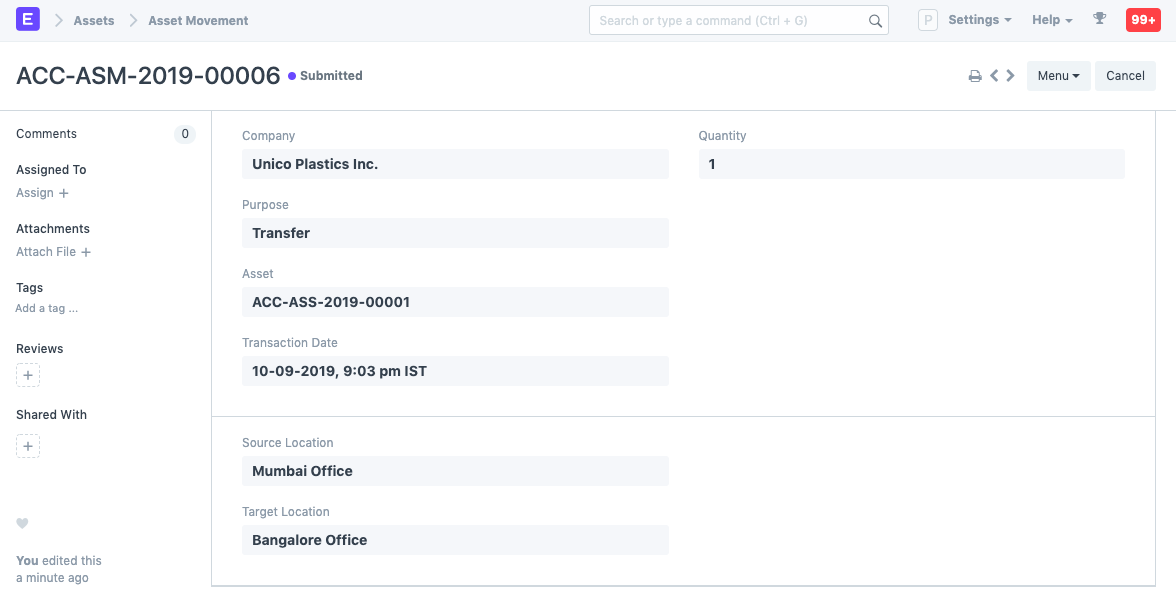
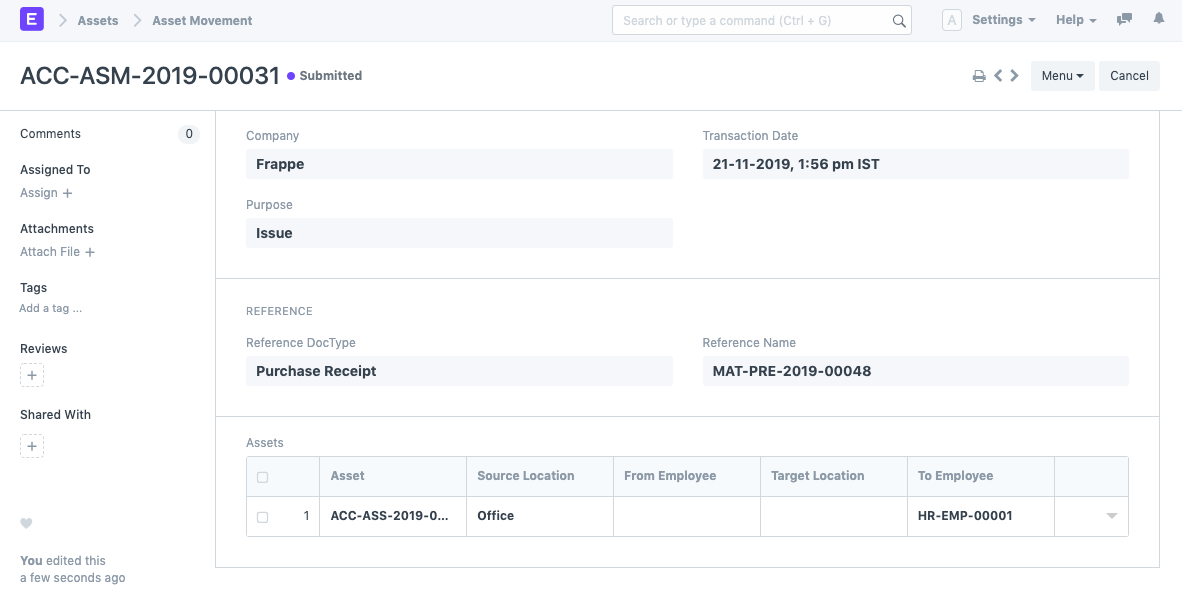
[WIP] [Asset Refactor] add docs for assets, asset movement, purchase of assets

diff --git a/erpnext_com/www/docs/user/manual/en/asset/asset.md b/erpnext_com/www/docs/user/manual/en/asset/asset.md
@@ -28,19 +28,19 @@ For an existing asset, you can create the asset record directly checking "Is Exi
 
 ### 2.2 New Asset
 
-For new assets, you cannot create the asset record directly from the Asset form. 
+For new assets, you cannot create the asset record directly from the Asset form. You need to create a Purchase Receipt/Invoice for it.
 
-When you're buying new assets, an asset ID is created when you make a Purchase Receipt. On submitting the Purchase Receipt for an Asset, you'll see a message like 'Asset AST00003 created'. This will happen only if you've ticked the 'Is Fixed Asset' checkbox when creating the Item.
+When you're buying new assets, an asset ID is created when you make a Purchase Receipt. On submitting the Purchase Receipt for an Asset, you'll see a message like 'Asset AST00003 created'. This will happen only if you've ticked the 'Is Fixed Asset' checkbox when creating the Item.	When you're buying new assets, assets can be created automatically when you make a Purchase Receipt, if you have 'Auto Create Assets on Purchase' ticked in the asset item. On submitting the Purchase Receipt for an Asset, you'll see a message like '5 Assets created for Office Phone'. If you don't want to auto create assets, after Purchase Receipt submission you will have to manually create assets and link the Purchase Receipt to the Asset.
 
 <img class="screenshot" alt="Asset" src="{{docs_base_url}}/assets/img/asset/asset.png">
 
-After submitting a Purchase Receipt/Invoice for such an Item, an Asset record will be created in the Draft stage. You can then go to the Asset and submit it.
+After submitting a Purchase Receipt/Invoice for such an Item, in case of auto creation a number of Asset record will be created in the Draft stage. You can then go to the Asset and submit it.
 
 To know more, visit the [Purchasing an Asset](/docs/user/manual/en/asset/purchasing-an-asset) page.
 
-## 3. How to create an Asset
+## 3. How to manually create an Asset
 
-Before you can create an Asset, you need to create an Item with 'Is Fixed Asset' checkbox ticked. Note that this cannot be done on an existing Item.
+Before you can create an Asset, you need to create an Item with 'Is Fixed Asset' checkbox ticked and create a Purchase Receipt/Invoice against that Item. Note that you will have to create a number of Assets based on the quantity specified in the Purchase Document.
 
 An Asset Category needs to be assigned to that Item. Now the Asset can be created.
 
@@ -49,9 +49,8 @@ An Asset Category needs to be assigned to that Item. Now the Asset can be create
 1. Select the Item Code, the Item Name and Asset Category will be fetched automatically.
 1. Select who is the Asset Owner, i.e. Company, Supplier, or Customer.
 1. Select the Company/Supplier/Customer.
-1. Select a Location. Eg: Mumbai Office.
-1. Enter the Purchase Date.
-1. Enter the Gross Purchase Amount.
+1. Select the Purchase Receipt/Invoice. Purchase Date and Gross Purchase Amount will be fetched automatically.
+1. Select a Location. Eg: Mumbai Office. This will be fetched automatically if specified in Purchase Receipt items table
 1. Enter an Available for use Date to set the date from which the Asset is available for use. The depreciation for the first period will be calculated from this date.
 1. Tick the 'Is Existing Asset' checkbox if you're recording an existing Asset.
 1. Save and Submit. 

diff --git a/erpnext_com/www/docs/user/manual/en/asset/asset-movement.md b/erpnext_com/www/docs/user/manual/en/asset/asset-movement.md
@@ -19,16 +19,16 @@ Before creating and using Asset Movement, it is advised to create the following 
 
 ## 2. How to create an Asset Movement
 1. Go to the Asset Movement list, click on New.
-1. Select the Asset. 
+1. Select the Purpose. Based on purpose mandatory fields will be changed.
 1. Select a date.
-1. Enter the Quantity to be transfered.
-1. Enter the source and target Locations of the Asset.
-1. You can also transfer an Asset from one Employee to another by selecting the From and To Employee.
+1. Select Reference Doctype. It can be Purchase Reciept or Invoice
+1. Select Reference Document. It is the document through which the Asset was purchased.
+1. Assets linked to the Purchase Document will be fetched automatically. This handy when you have to make movements of a number of assets.
 1. Save.
 1. Submit.
 
-    If the Item is Serialized, enter the Serial Number. 
+There is also a **Transfer Asset** button on the top right of the Asset form to initiate Asset Movement. 
 
-There is also a **Transfer Asset** button on the top right of the Asset form to initiate Asset Movement. Enter the target location, select a date and click on Transfer.
+To make asset movement of a number of assets it is adviced to go to Asset List, select Assets and click on 'Make Asset Movement' from Actions menu on the top left.
 
 <img class="screenshot" alt="Asset" src="{{docs_base_url}}/assets/img/asset/asset-movement-using-button.png">

diff --git a/erpnext_com/www/docs/user/manual/en/asset/purchasing-an-asset.md b/erpnext_com/www/docs/user/manual/en/asset/purchasing-an-asset.md
@@ -4,9 +4,13 @@ For purchasing a new asset:
 
 1. Create an Asset Category
 1. Create an related Item with 'Is Fixed Asset' enabled for creating the asset.
+1. You may also enable 'Auto Create Assets on Purchase' for creating assets automatically. (Optional)
+
+<img class="screenshot" alt="Purchasing Asset" src="{{docs_base_url}}/assets/img/asset/asset-purchase-receipt.png">
+
 1. Then, the [purchase cycle](/docs/user/manual/en/buying/purchase-order) should be followed for purchasing an asset.
 1. Enter the Asset Location in the Items table of the [Purchase Receipt](/docs/user/manual/en/stock/purchase-receipt) or [Purchase Invoice](/docs/user/manual/en/accounts/purchase-invoice) through which you are receiving the item.
-1. On submission of a Purchase Receipt, an asset record will be created automatically. You can then enter other details of the asset manually from the Asset form.
+1. On submission of a Purchase Receipt, based on auto creation checkbox asset records will be created automatically. You can then enter other details of the asset manually from the Asset form.
 
 <img class="screenshot" alt="Purchasing Asset" src="{{docs_base_url}}/assets/img/asset/asset-purchase-receipt.png">
 

diff --git a/erpnext_com/www/docs/user/manual/en/stock/item.md b/erpnext_com/www/docs/user/manual/en/stock/item.md
@@ -50,6 +50,8 @@ Before creating and using an Itme, it is advised that you create the following f
 
 * **Is Fixed Asset**: Tick this checkbox if this item is a company Asset. Check out the [Asset Module](/docs/user/manual/en/asset) to know more.
 
+* **Auto Create Assets on Purchase**: If item is company Asset, tick this checkbox if you want to auto create assets while purchasing this item through [Purchase Cycle](/docs/user/manual/en/buying/purchase-order). Check out the [Asset Module](/docs/user/manual/en/asset) to know more.
+
 * **Allowance Percentage**: This option will be available only when you create and save the item. This is the percent by which you will be allowed to over-bill or over-deliver this Item. If not set, it will select from [Stock Settings](/docs/user/manual/en/stock/stock-settings#3-limit-percent).
 
 * **Uploading an Image**: To upload an image for your icon that will appear in all transactions, save the partially filled form. Only after your file is saved the 'Change' button will appear on the Image icon. Click on Change, then click on Upload, and upload the image.
